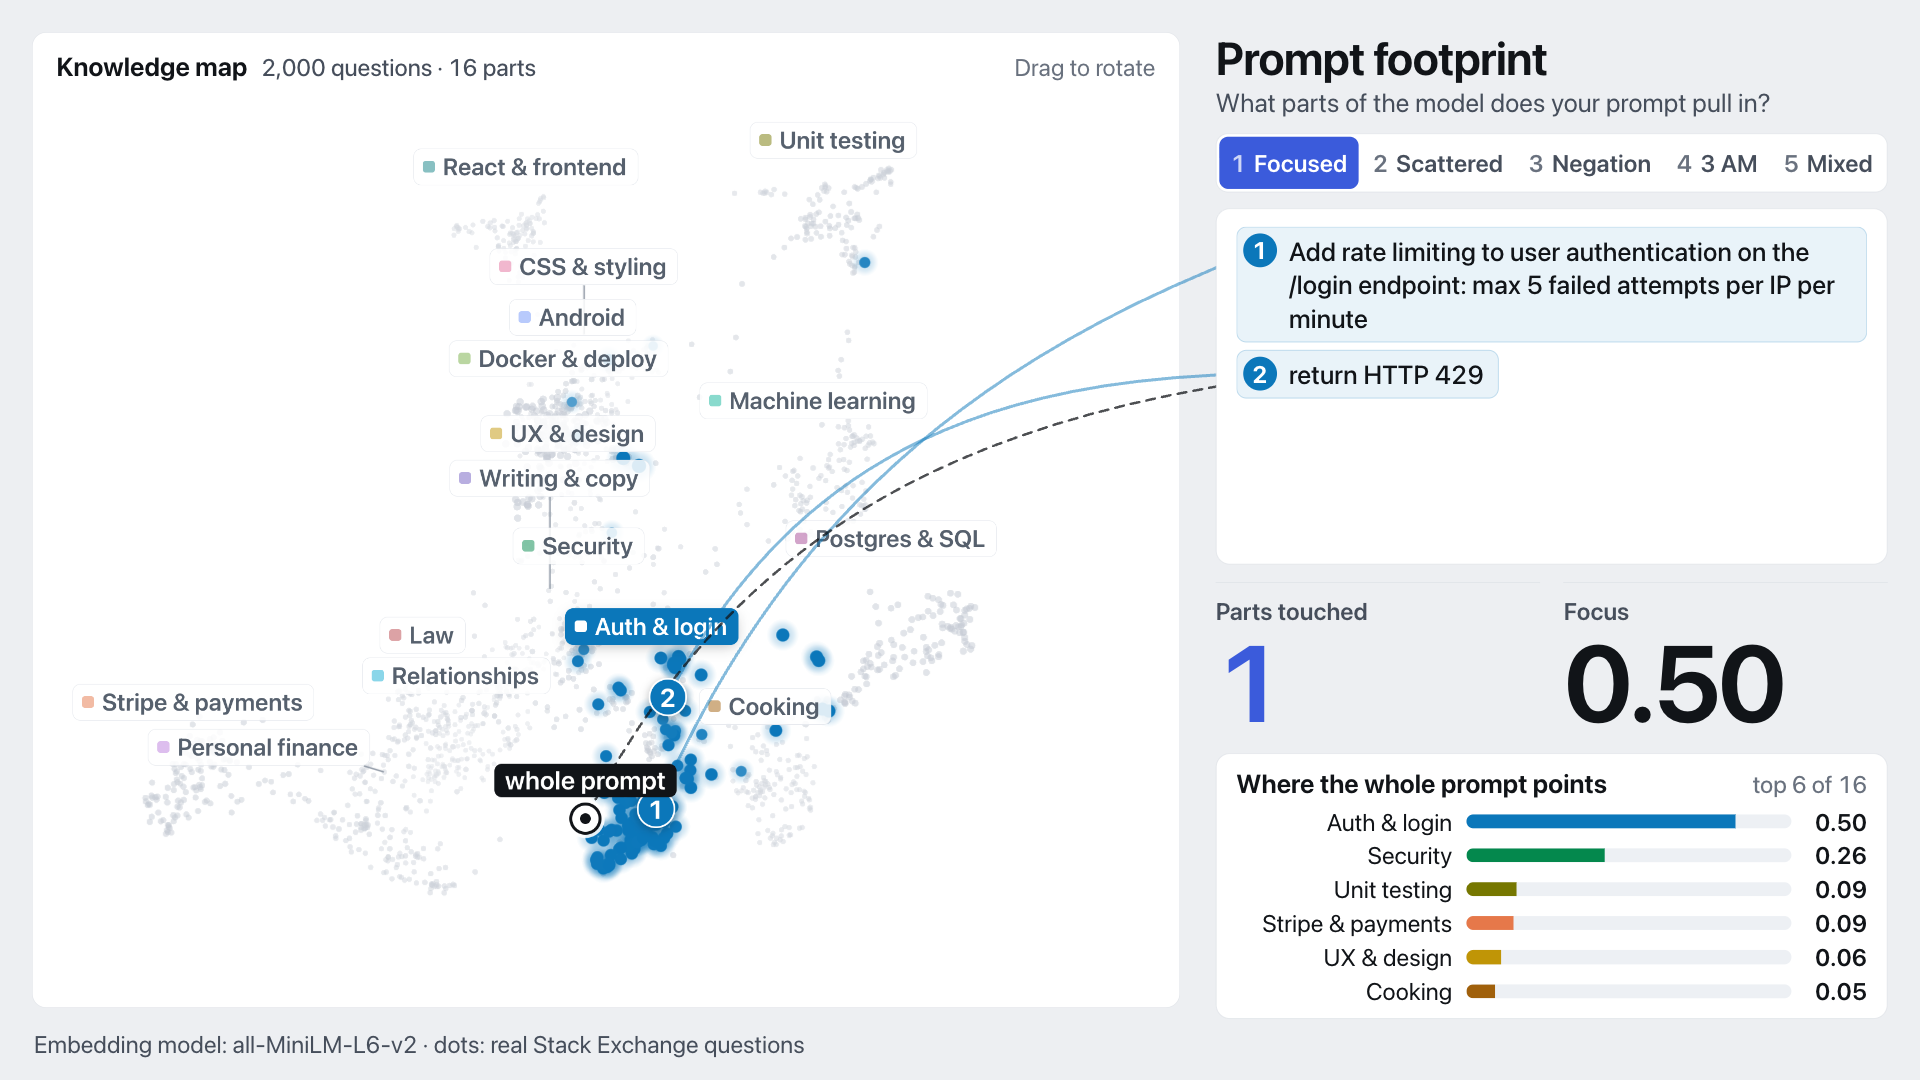
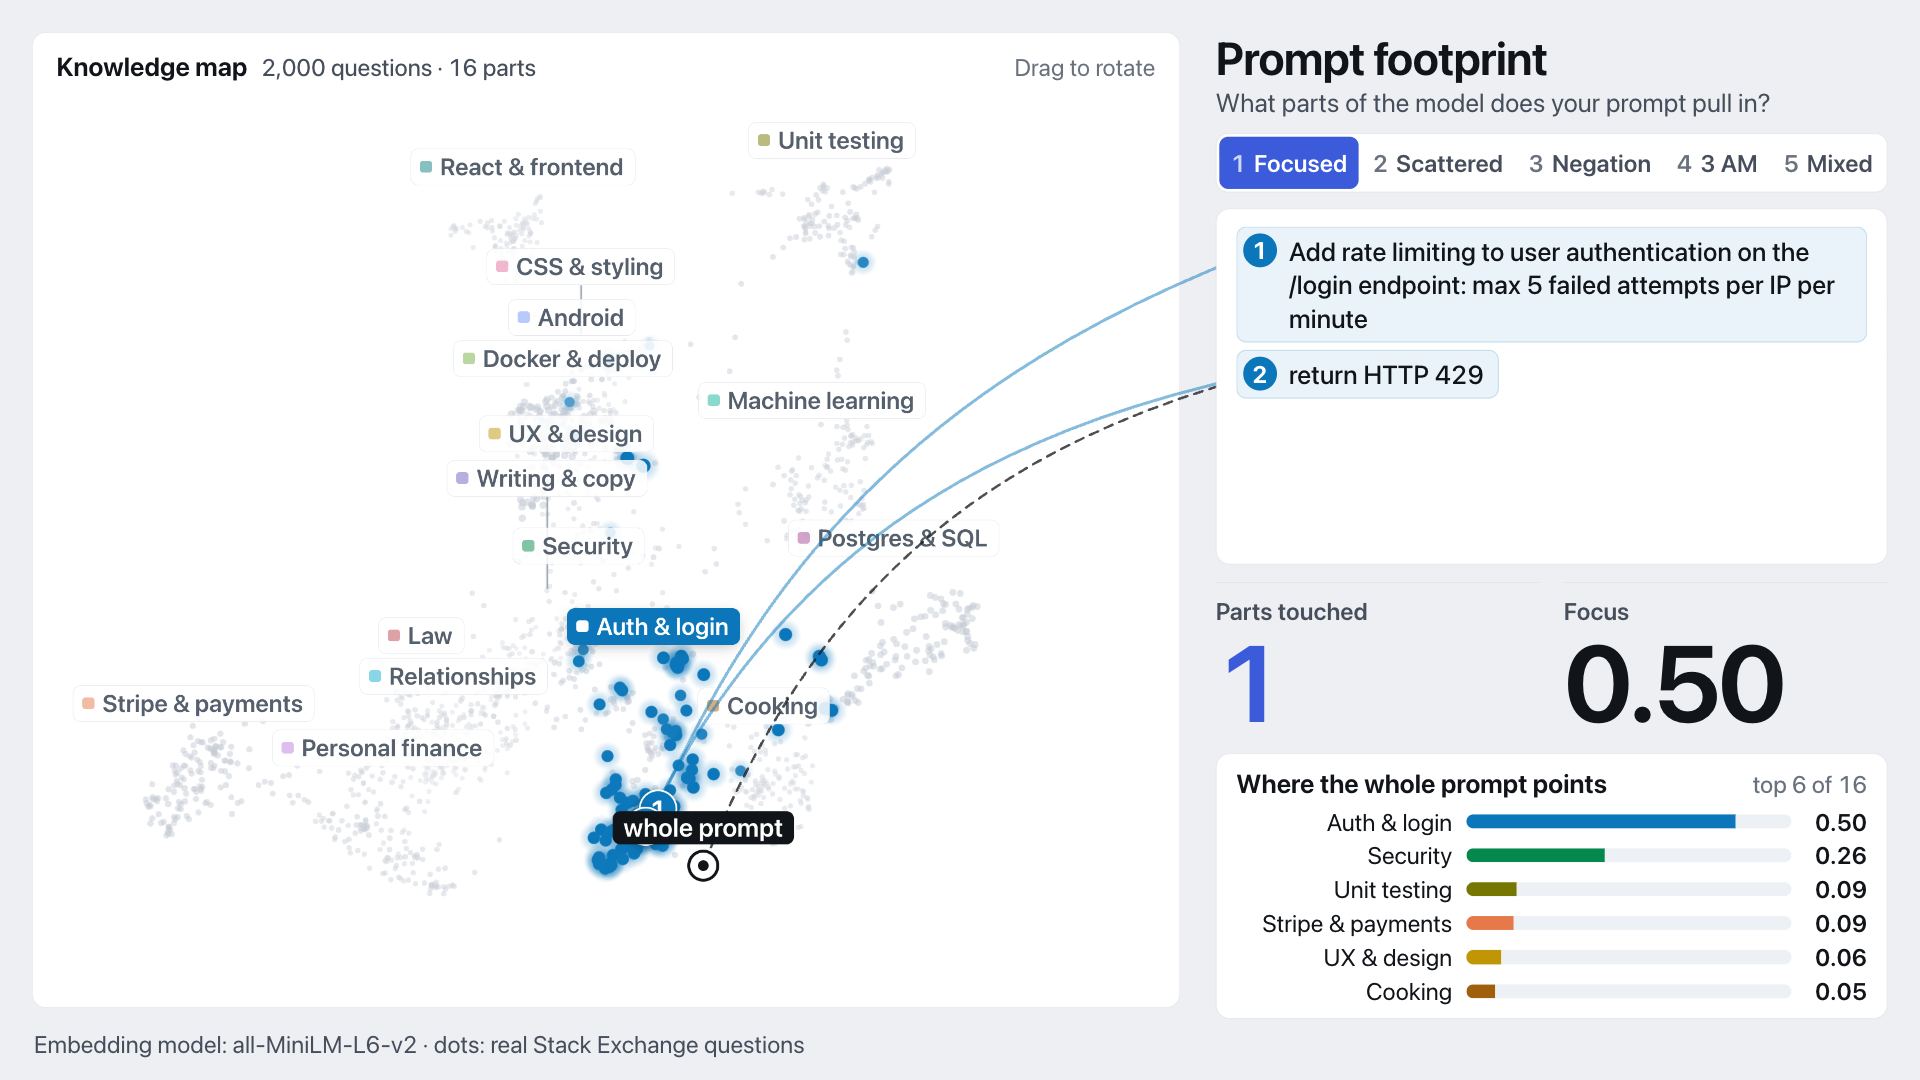
Re-shoot demo screenshots for in-island clause dots
The engine (5461209) now lands each clause's dot among the nearest
points of its own part, so the real-* screenshots were stale. They are
re-shot at 1920x1080 for all five presets.

engine.mock.js follows the same rule from the spec: clause dots land in
their part's island, while the whole-prompt dot can still fall between
islands. The mock-* screenshots are re-shot to match.

diff --git a/demo/engine.mock.js b/demo/engine.mock.js
@@ -151,10 +151,12 @@ function build() {
   return world;
 }
 
-function knn(v, k = 12) {
+/** The k most similar points as [sim, index], descending; only points of `part` when given. */
+function nearest(v, k = 12, part = null) {
   const { points, vectors } = build();
-  const best = []; // [sim, index], descending
+  const best = [];
   for (let i = 0; i < points.length; i++) {
+    if (part && points[i].part !== part) continue;
     const s = dot(v, vectors, i * DIMS);
     if (best.length < k || s > best[best.length - 1][0]) {
       let j = best.length < k ? best.length : k - 1;
@@ -162,16 +164,28 @@ function knn(v, k = 12) {
       best[j] = [s, i];
     }
   }
-  const vote = new Map();
-  for (const [s, i] of best) vote.set(points[i].part, (vote.get(points[i].part) || 0) + Math.max(0, s));
-  const part = [...vote].sort((a, b) => b[1] - a[1])[0][0];
+  return best;
+}
+
+/** softmax(sim / 0.05)-weighted average position of the given neighbours. */
+function place(best) {
+  const { points } = build();
   let wx = 0, wy = 0, wz = 0, ws = 0;
   for (const [s, i] of best) {
     const w = Math.exp((s - best[0][0]) / 0.05);
     wx += w * points[i].x; wy += w * points[i].y; wz += w * points[i].z; ws += w;
   }
   const xyz = [round3(wx / ws), round3(wy / ws), round3(wz / ws)];
-  return { part, xyz, xy: xyz.slice(0, 2) };
+  return { xyz, xy: xyz.slice(0, 2) };
+}
+
+/** Clause: the part wins a similarity-weighted kNN vote, and its dot lands among that part's own nearest points. */
+function knnClause(v) {
+  const { points } = build();
+  const vote = new Map();
+  for (const [s, i] of nearest(v)) vote.set(points[i].part, (vote.get(points[i].part) || 0) + Math.max(0, s));
+  const part = [...vote].sort((a, b) => b[1] - a[1])[0][0];
+  return { part, ...place(nearest(v, 12, part)) };
 }
 
 const listeners = new Set();
@@ -224,7 +238,7 @@ export async function score(prompt) {
   const clauses = [];
   for (const text of texts) {
     const v = await embed(text);
-    const { part, xyz, xy } = knn(v);
+    const { part, xyz, xy } = knnClause(v);
     const sim = round3(dot(v, parts[index.get(part)].centroid));
     clauses.push({ text, part, sim, xyz, xy, touched: sim >= THRESHOLDS.touch });
   }
@@ -237,6 +251,6 @@ export async function score(prompt) {
     sims[p.id] = s;
     if (!top || s > top.sim) top = { part: p.id, sim: s };
   }
-  const { xyz, xy } = knn(wv);
+  const { xyz, xy } = place(nearest(wv)); // the whole prompt may land between islands
   return { clauses, partsTouched, whole: { sims, top, xyz, xy } };
 }
